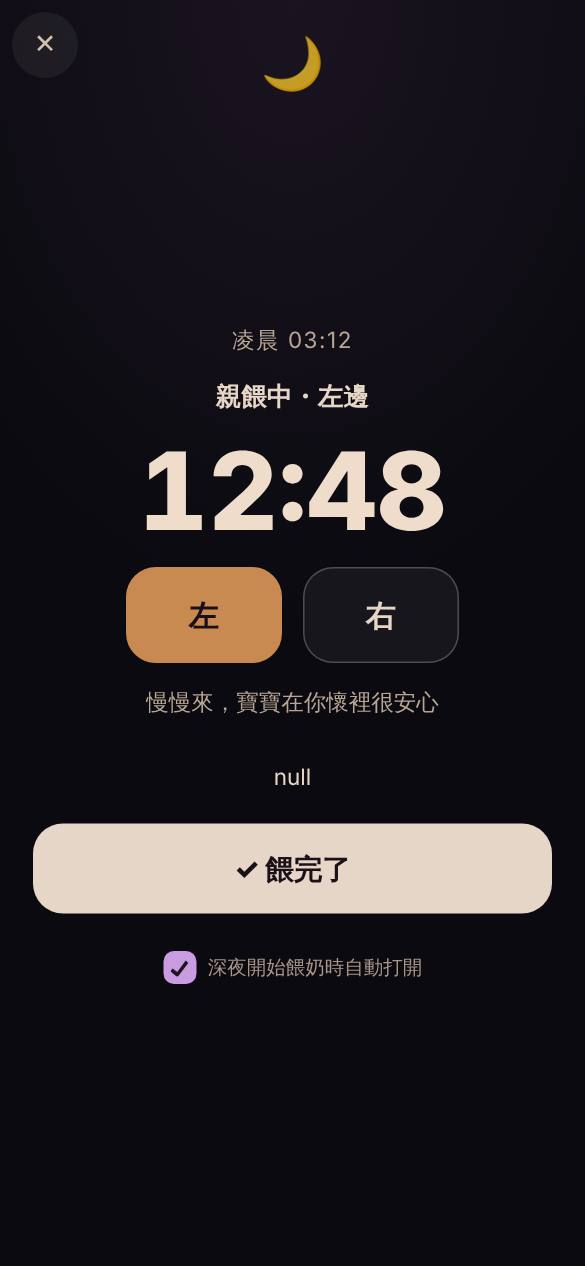
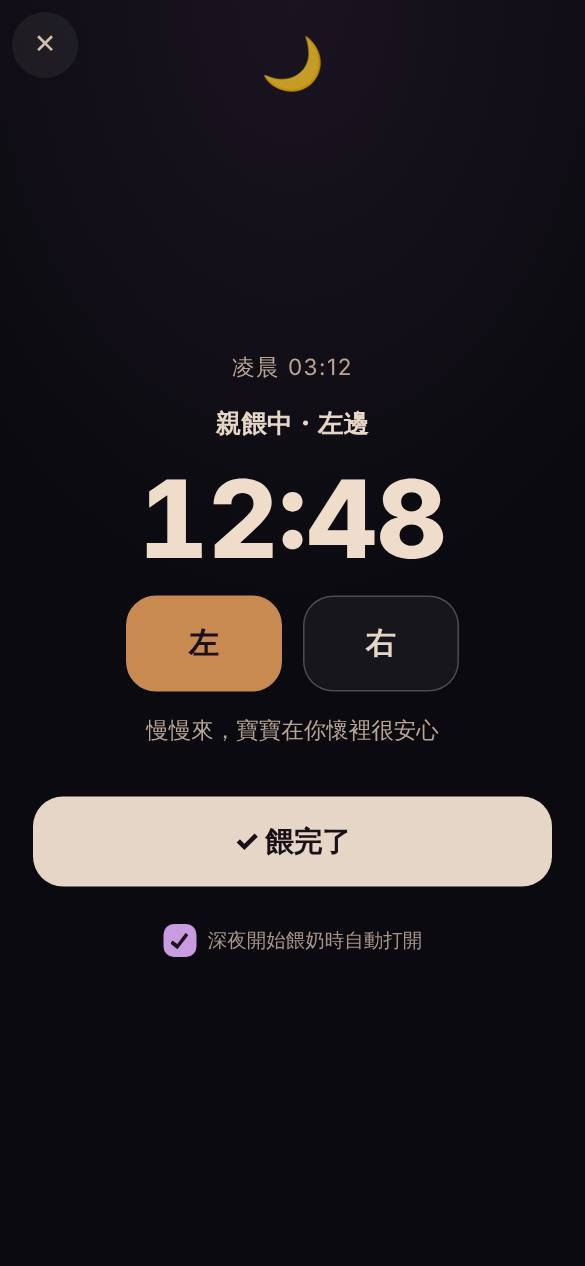
夜奶陪伴: no stray "null" line when there is no member service
DOM append() prints a left-out part as the word "null": the wave row (no member service) and the timer (no
feed running) were showing it. Parts that are left out are now dropped first; the test checks for it in both
cases. Also adds the seven share-card colours rendered by the app for the landing page, and the retaken night
picture.

Claude-Session: https://claude.ai/code/session_01G8B5i5SnFWV2n3SfjHBrsn

Changed region(s): [[0.0308, 0.2464, 0.9538, 0.8009], [0.7692, 0.4621, 0.8, 0.5237]]

diff --git a/mom-app/js/modules/night.js b/mom-app/js/modules/night.js
@@ -65,7 +65,8 @@
     const last = b ? (store.state.logs || []).filter((l) => l.babyId === b.id && (l.type === 'breast' || l.type === 'bottle')).reduce((a, x) => (!a || x.start > a.start ? x : a), null) : null;
     const body = root.querySelector('.nt-body');
     body.innerHTML = '';
-    body.append(
+    // DOM append() would print a left-out part (null) as the word "null": leave those out first
+    body.append(...[
       h('div', { class: 'nt-time' }, `${now.getHours() < 5 ? '凌晨' : '晚上'} ${C.fmtTime(now)}`),
       t ? h('div', { class: 'nt-what' }, `${b && (store.state.babies || []).length > 1 ? `${b.name}・` : ''}親餵中・${t.side === 'L' ? '左' : '右'}邊`) : h('div', { class: 'nt-what' }, last ? `上一餐 ${C.fmtTime(last.start)}（${C.ago(last.start)}）` : '準備餵奶了嗎？'),
       t ? h('div', { class: 'nt-clock', dataset: { clock: t.start }, role: 'timer', 'aria-label': '餵奶計時' }, C.fmtClock(now - new Date(t.start).getTime())) : null,
@@ -79,7 +80,8 @@
       t ? h('button', { class: 'nt-done', onclick: () => { App.timers.stopWithUndo('breast', bid); close(); } }, '✓ 餵完了') : h('button', { class: 'nt-done nt-bottle', onclick: () => { close(); if (App.babylog && App.babylog.openAdd) App.babylog.openAdd('bottle'); } }, '🍼 記一筆瓶餵'),
       h('label', { class: 'nt-auto' }, h('input', {
         type: 'checkbox', checked: autoOn(), onchange: (e) => { store.update((s) => { s.settings.nightCompanion = e.target.checked; }); },
-      }), h('span', null, '深夜開始餵奶時自動打開')));
+      }), h('span', null, '深夜開始餵奶時自動打開')),
+    ].filter(Boolean));
     awake(body.querySelector('.nt-awake'));
   }
   function open(babyId = null) {
